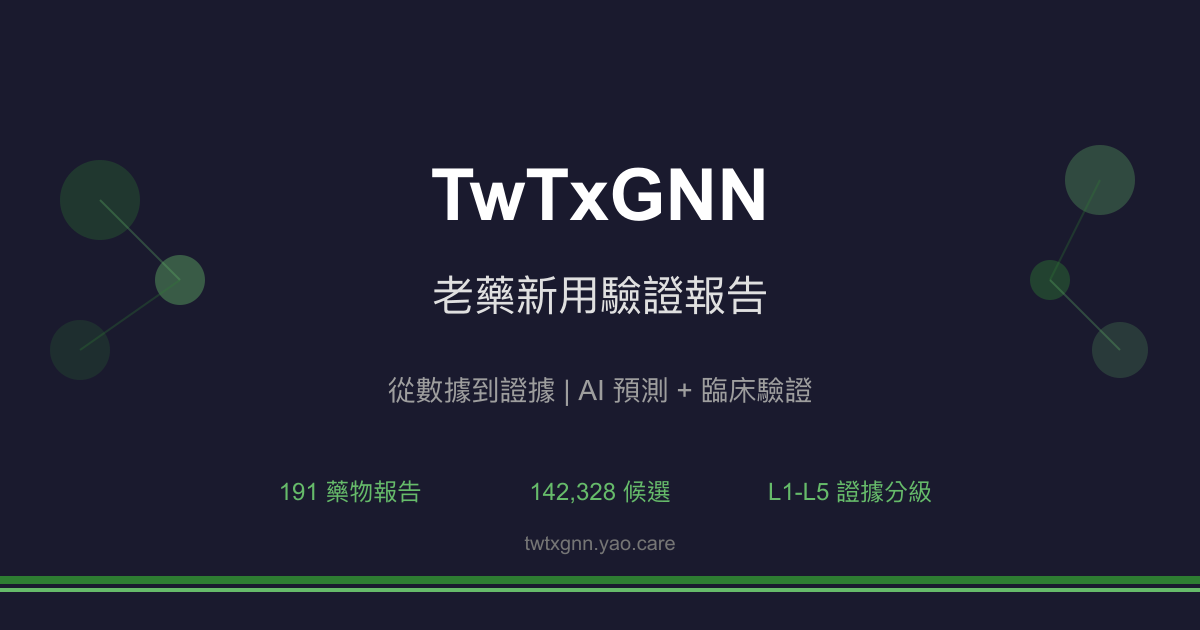
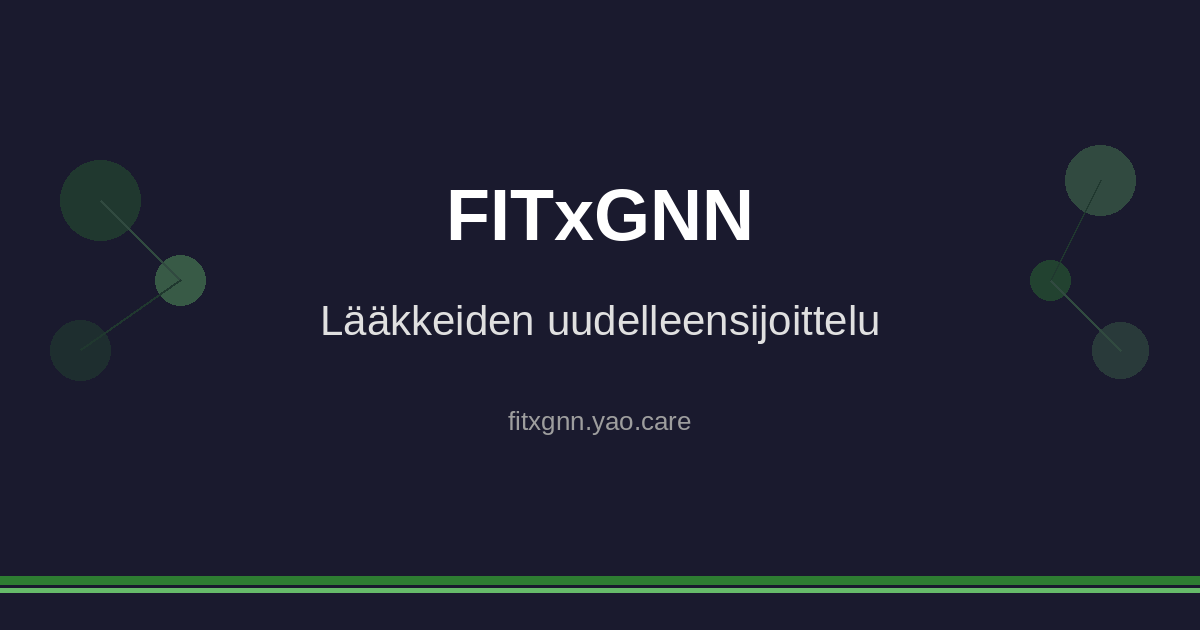
fix: 移除照抄 TwTxGNN 的內容（og 圖、分享按鈕）
- og-default.png／svg：原檔是 TwTxGNN 的圖（TwTxGNN、191 藥物報告、142,328 候選、twtxgnn.yao.care）。
  改由母 repo .claude/gen_og_image.py 產生本站圖：只放站名、網域、本站語言的一行副標（取自 _config.yml title），不放數字。
- assets/images/README.md：設計要求裡的「TwTxGNN」與標語改成本站實際內容，註明產生方式。
- _includes/social-share.html：X hashtag 與 mailto 主旨的 TwTxGNN → FITxGNN；推文與郵件內文原為中文「老藥新用驗證報告」，按鈕文字原為英文，改成本站語言。（此 include 目前沒有頁面引用，先修正以免日後啟用時帶出 Tw 字樣。）

Claude-Session: https://claude.ai/code/session_013aGXmRzC9hmsD5XtZ9FusM

diff --git a/docs/_includes/social-share.html b/docs/_includes/social-share.html
@@ -1,14 +1,14 @@
-<!-- 學術分享按鈕 -->
+<!-- Share buttons -->
 <div class="social-share" style="margin: 2rem 0; padding: 1.25rem; background: #f8f9fa; border-radius: 8px; border: 1px solid #e0e0e0;">
-  <strong style="display: block; margin-bottom: 0.75rem; color: #333;">Share this report:</strong>
+  <strong style="display: block; margin-bottom: 0.75rem; color: #333;">Jaa tämä raportti:</strong>
   <div style="display: flex; gap: 0.5rem; flex-wrap: wrap;">
     <!-- Twitter/X -->
-    <a href="https://twitter.com/intent/tweet?text={{ page.title | url_encode }}%20%E8%80%81%E8%97%A5%E6%96%B0%E7%94%A8%E9%A9%97%E8%AD%89%E5%A0%B1%E5%91%8A&url={{ page.url | absolute_url | url_encode }}&hashtags=DrugRepurposing,TwTxGNN"
+    <a href="https://twitter.com/intent/tweet?text={{ page.title | url_encode }}%20L%C3%A4%C3%A4kkeiden%20uudelleensijoitteluraportti&url={{ page.url | absolute_url | url_encode }}&hashtags=DrugRepurposing,FITxGNN"
        target="_blank" rel="noopener noreferrer"
        style="display: inline-flex; align-items: center; gap: 0.375rem; padding: 0.5rem 1rem; background: #000; color: white; text-decoration: none; border-radius: 6px; font-size: 0.9rem; font-weight: 500; transition: opacity 0.2s;"
        onmouseover="this.style.opacity='0.8'" onmouseout="this.style.opacity='1'">
       <svg width="16" height="16" fill="currentColor" viewBox="0 0 24 24"><path d="M18.244 2.25h3.308l-7.227 8.26 8.502 11.24H16.17l-5.214-6.817L4.99 21.75H1.68l7.73-8.835L1.254 2.25H8.08l4.713 6.231zm-1.161 17.52h1.833L7.084 4.126H5.117z"/></svg>
-      Share on X
+      Jaa X:ssä
     </a>
 
     <!-- LinkedIn -->
@@ -20,16 +20,16 @@
       LinkedIn
     </a>
 
-    <!-- 複製連結 -->
+    <!-- Copy link -->
     <button onclick="copyReportLink(this)"
             style="display: inline-flex; align-items: center; gap: 0.375rem; padding: 0.5rem 1rem; background: #6c757d; color: white; border: none; border-radius: 6px; cursor: pointer; font-size: 0.9rem; font-weight: 500; transition: all 0.2s;"
             onmouseover="this.style.background='#5a6268'" onmouseout="this.style.background='#6c757d'">
       <svg width="16" height="16" fill="currentColor" viewBox="0 0 24 24"><path d="M16 1H4c-1.1 0-2 .9-2 2v14h2V3h12V1zm3 4H8c-1.1 0-2 .9-2 2v14c0 1.1.9 2 2 2h11c1.1 0 2-.9 2-2V7c0-1.1-.9-2-2-2zm0 16H8V7h11v14z"/></svg>
-      <span>Copy link</span>
+      <span>Kopioi linkki</span>
     </button>
 
     <!-- Email -->
-    <a href="mailto:?subject={{ page.title | url_encode }}%20-%20TwTxGNN&body=%E6%8E%A8%E8%96%A6%E9%80%99%E4%BB%BD%E8%80%81%E8%97%A5%E6%96%B0%E7%94%A8%E9%A9%97%E8%AD%89%E5%A0%B1%E5%91%8A%EF%BC%9A%0A%0A{{ page.url | absolute_url | url_encode }}"
+    <a href="mailto:?subject={{ page.title | url_encode }}%20-%20FITxGNN&body=Suosittelen%20t%C3%A4t%C3%A4%20l%C3%A4%C3%A4kkeiden%20uudelleensijoitteluraporttia%3A%0A%0A{{ page.url | absolute_url | url_encode }}"
        style="display: inline-flex; align-items: center; gap: 0.375rem; padding: 0.5rem 1rem; background: #EA4335; color: white; text-decoration: none; border-radius: 6px; font-size: 0.9rem; font-weight: 500; transition: opacity 0.2s;"
        onmouseover="this.style.opacity='0.8'" onmouseout="this.style.opacity='1'">
       <svg width="16" height="16" fill="currentColor" viewBox="0 0 24 24"><path d="M20 4H4c-1.1 0-1.99.9-1.99 2L2 18c0 1.1.9 2 2 2h16c1.1 0 2-.9 2-2V6c0-1.1-.9-2-2-2zm0 4l-8 5-8-5V6l8 5 8-5v2z"/></svg>
@@ -44,7 +44,7 @@ function copyReportLink(btn) {
   navigator.clipboard.writeText(url).then(() => {
     const span = btn.querySelector('span');
     const originalText = span.textContent;
-    span.textContent = 'Copied!';
+    span.textContent = 'Kopioitu!';
     btn.style.background = '#28a745';
     setTimeout(() => {
       span.textContent = originalText;

diff --git a/docs/assets/images/README.md b/docs/assets/images/README.md
@@ -15,11 +15,15 @@ nav_exclude: true
 
 ### 設計要求
 
-1. 包含網站名稱「TwTxGNN」
-2. 包含標語「老藥新用，從數據到證據」
-3. 簡潔、專業風格
-4. 背景純色或簡單圖案
+1. 包含網站名稱「FITxGNN」與網域
+2. 包含該站語言的一行副標（取自 _config.yml 的 title）
+3. 不放藥物數、候選數等數字（會過期）
+4. 簡潔、專業風格
 5. 適合在社群媒體預覽顯示
+
+### 產生方式
+
+由 TxGNN 母 repo 的 `.claude/gen_og_image.py` 產生（同時輸出 og-default.svg）。
 
 ### 使用位置
 
